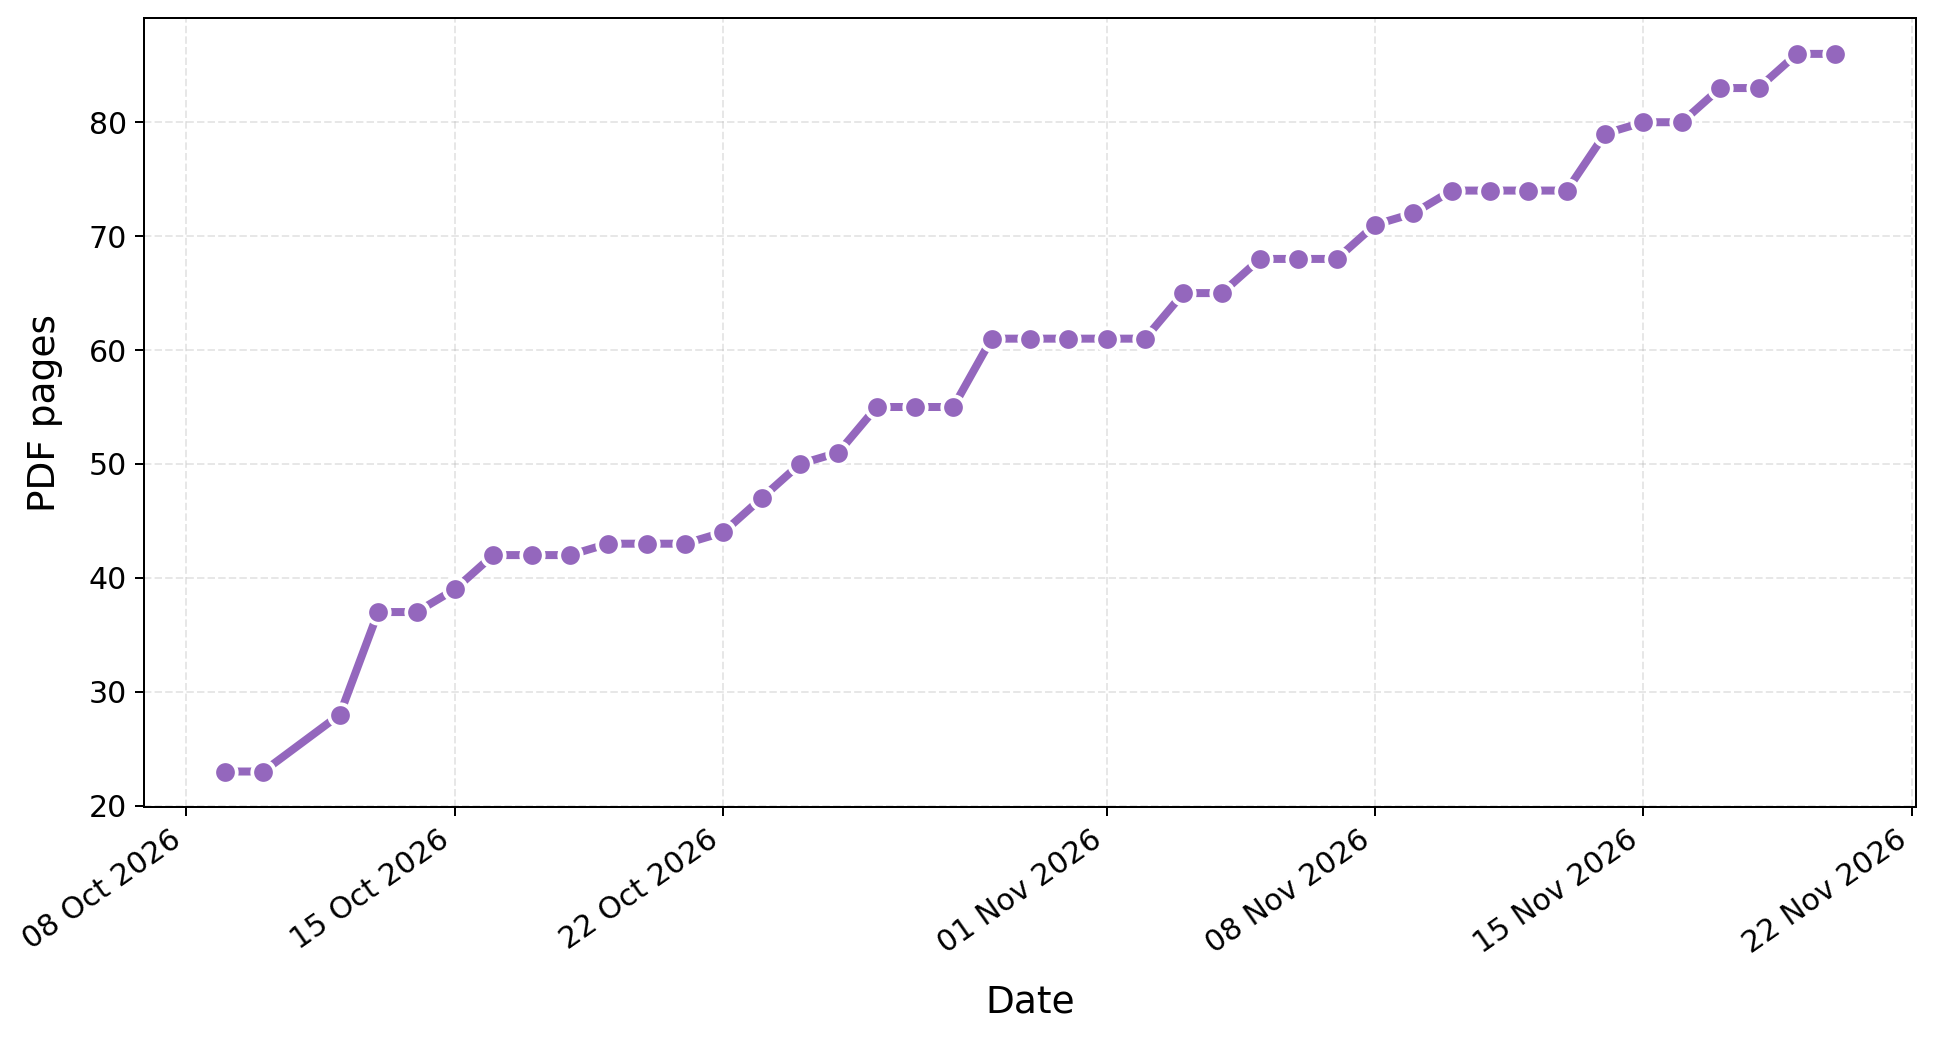
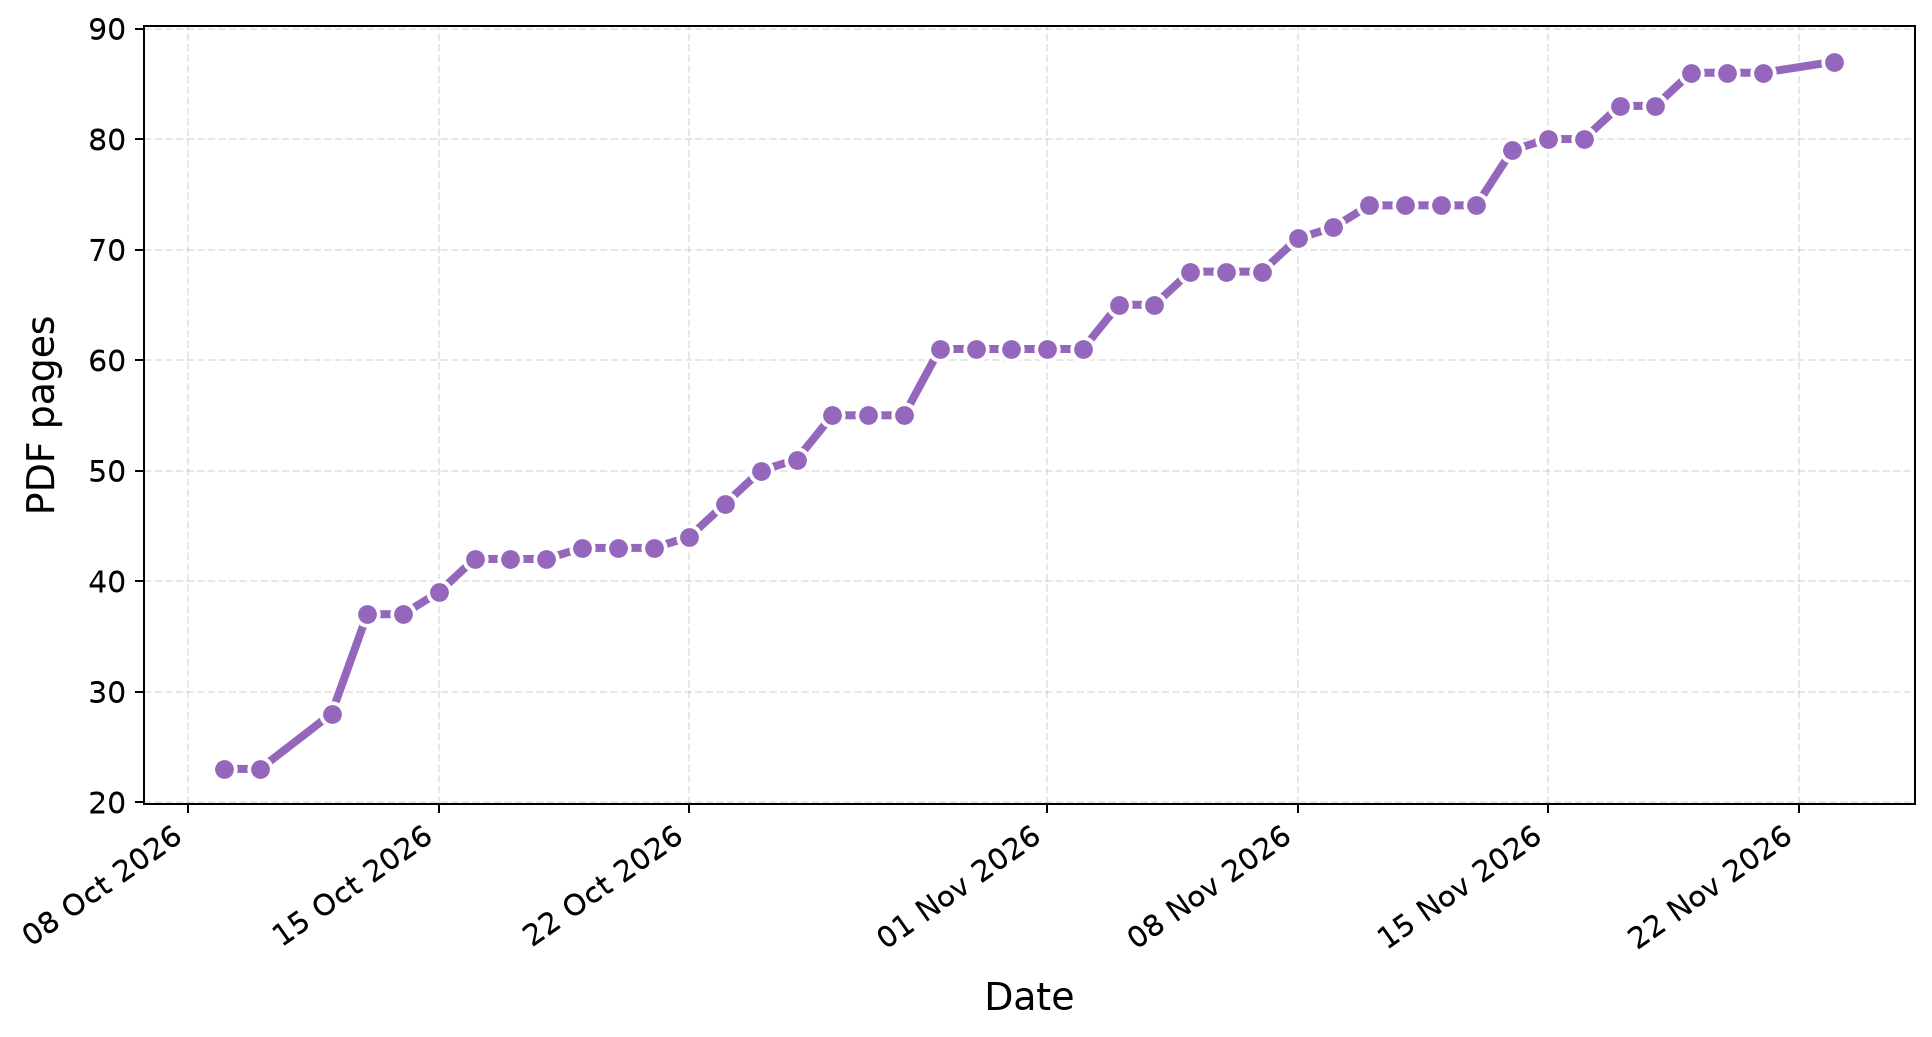
Update thesis progress dashboard

diff --git a/index.html b/index.html
@@ -12,7 +12,7 @@
     <p class="eyebrow">THESIS WRITING LOG</p>
     <h1>Thesis Progress</h1>
     <p>A visual overview of writing progress over time.</p>
-    <p class="updated">Last updated: 2026-11-21 12:28 CET</p>
+    <p class="updated">Last updated: 2026-11-23 01:17 CET</p>
   </header>
 
   <main>
@@ -28,30 +28,30 @@
 
         <article class="summary-card">
           <p class="summary-label">Total words</p>
-          <p class="summary-total">12,196</p>
+          <p class="summary-total">12,710</p>
           <p class="summary-change"
              style="color: #16A34A;">
-            +1,430 this week
+            +402 this week
           </p>
         </article>
         
 
         <article class="summary-card">
           <p class="summary-label">Total lines</p>
-          <p class="summary-total">1,451</p>
+          <p class="summary-total">1,475</p>
           <p class="summary-change"
              style="color: #16A34A;">
-            +81 this week
+            +20 this week
           </p>
         </article>
         
 
         <article class="summary-card">
           <p class="summary-label">Total pages</p>
-          <p class="summary-total">86</p>
+          <p class="summary-total">87</p>
           <p class="summary-change"
              style="color: #16A34A;">
-            +6 this week
+            +1 this week
           </p>
         </article>
         
@@ -60,15 +60,15 @@
           <p class="summary-label">Total figures</p>
           <p class="summary-total">35</p>
           <p class="summary-change"
-             style="color: #16A34A;">
-            +3 this week
+             style="color: #64748B;">
+            No change this week
           </p>
         </article>
         
 
         <article class="summary-card">
           <p class="summary-label">Total equations</p>
-          <p class="summary-total">6</p>
+          <p class="summary-total">8</p>
           <p class="summary-change"
              style="color: #16A34A;">
             +2 this week
@@ -88,10 +88,10 @@
 
         <article class="summary-card">
           <p class="summary-label">Total sections</p>
-          <p class="summary-total">110</p>
+          <p class="summary-total">114</p>
           <p class="summary-change"
              style="color: #16A34A;">
-            +1 this week
+            +2 this week
           </p>
         </article>
         
@@ -100,8 +100,8 @@
           <p class="summary-label">Total citations</p>
           <p class="summary-total">61</p>
           <p class="summary-change"
-             style="color: #16A34A;">
-            +3 this week
+             style="color: #64748B;">
+            No change this week
           </p>
         </article>
         
@@ -111,7 +111,7 @@
 
     <!-- Weekly progress for smaller metrics -->
     <section>
-      <h2 class="weekly-heading">Weekly progress [16.11.2026–22.11.2026]</h2>
+      <h2 class="weekly-heading">Weekly progress [23.11.2026–29.11.2026]</h2>
       <p class="description">
         Changes in equations, figures, tables, citations, and
         cross-references between recorded weeks.
